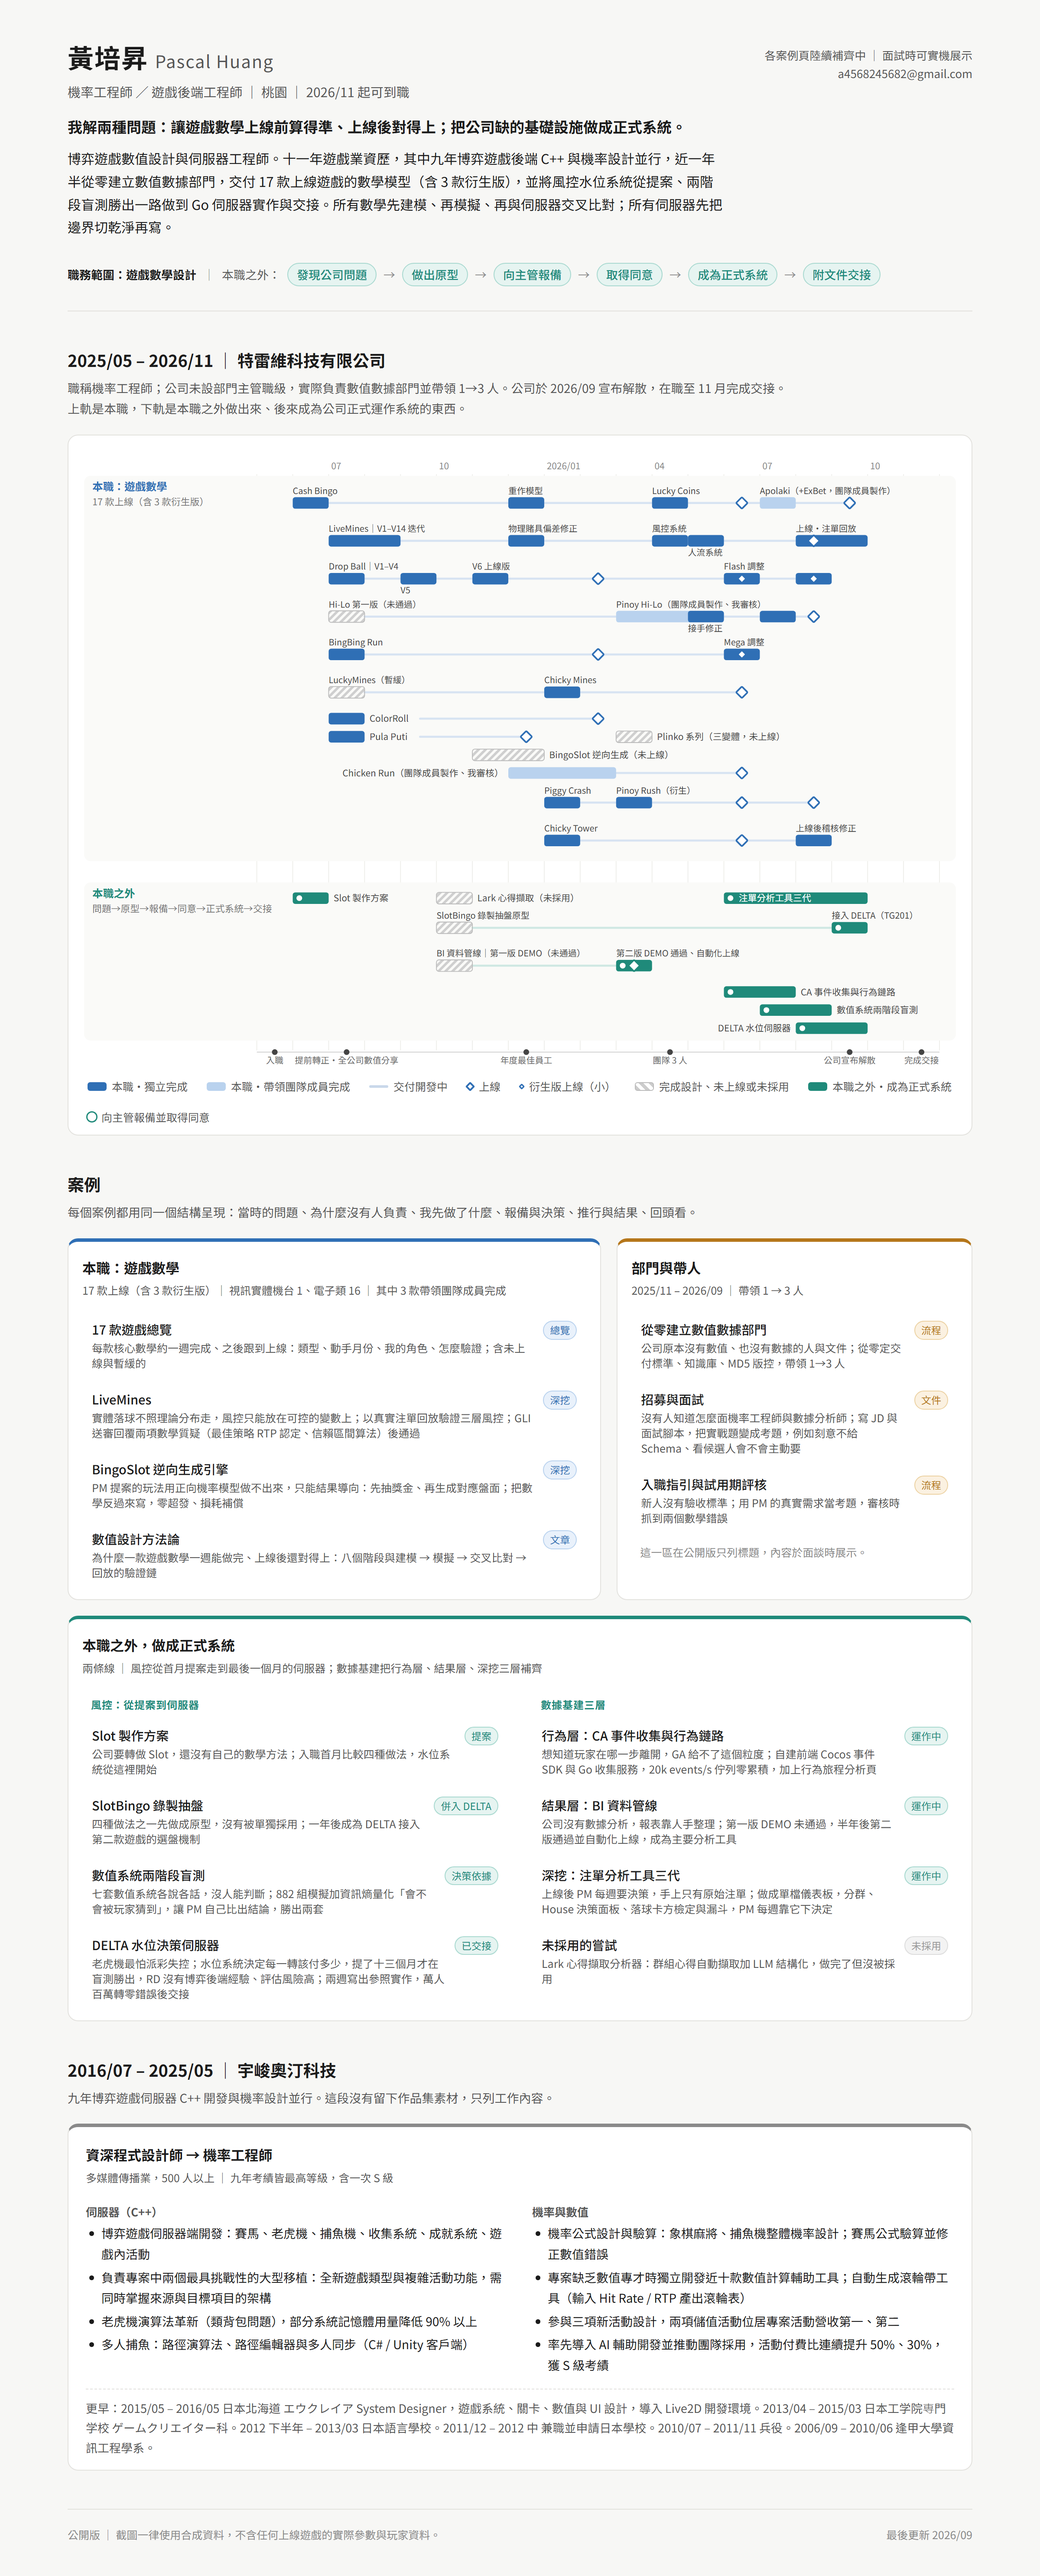
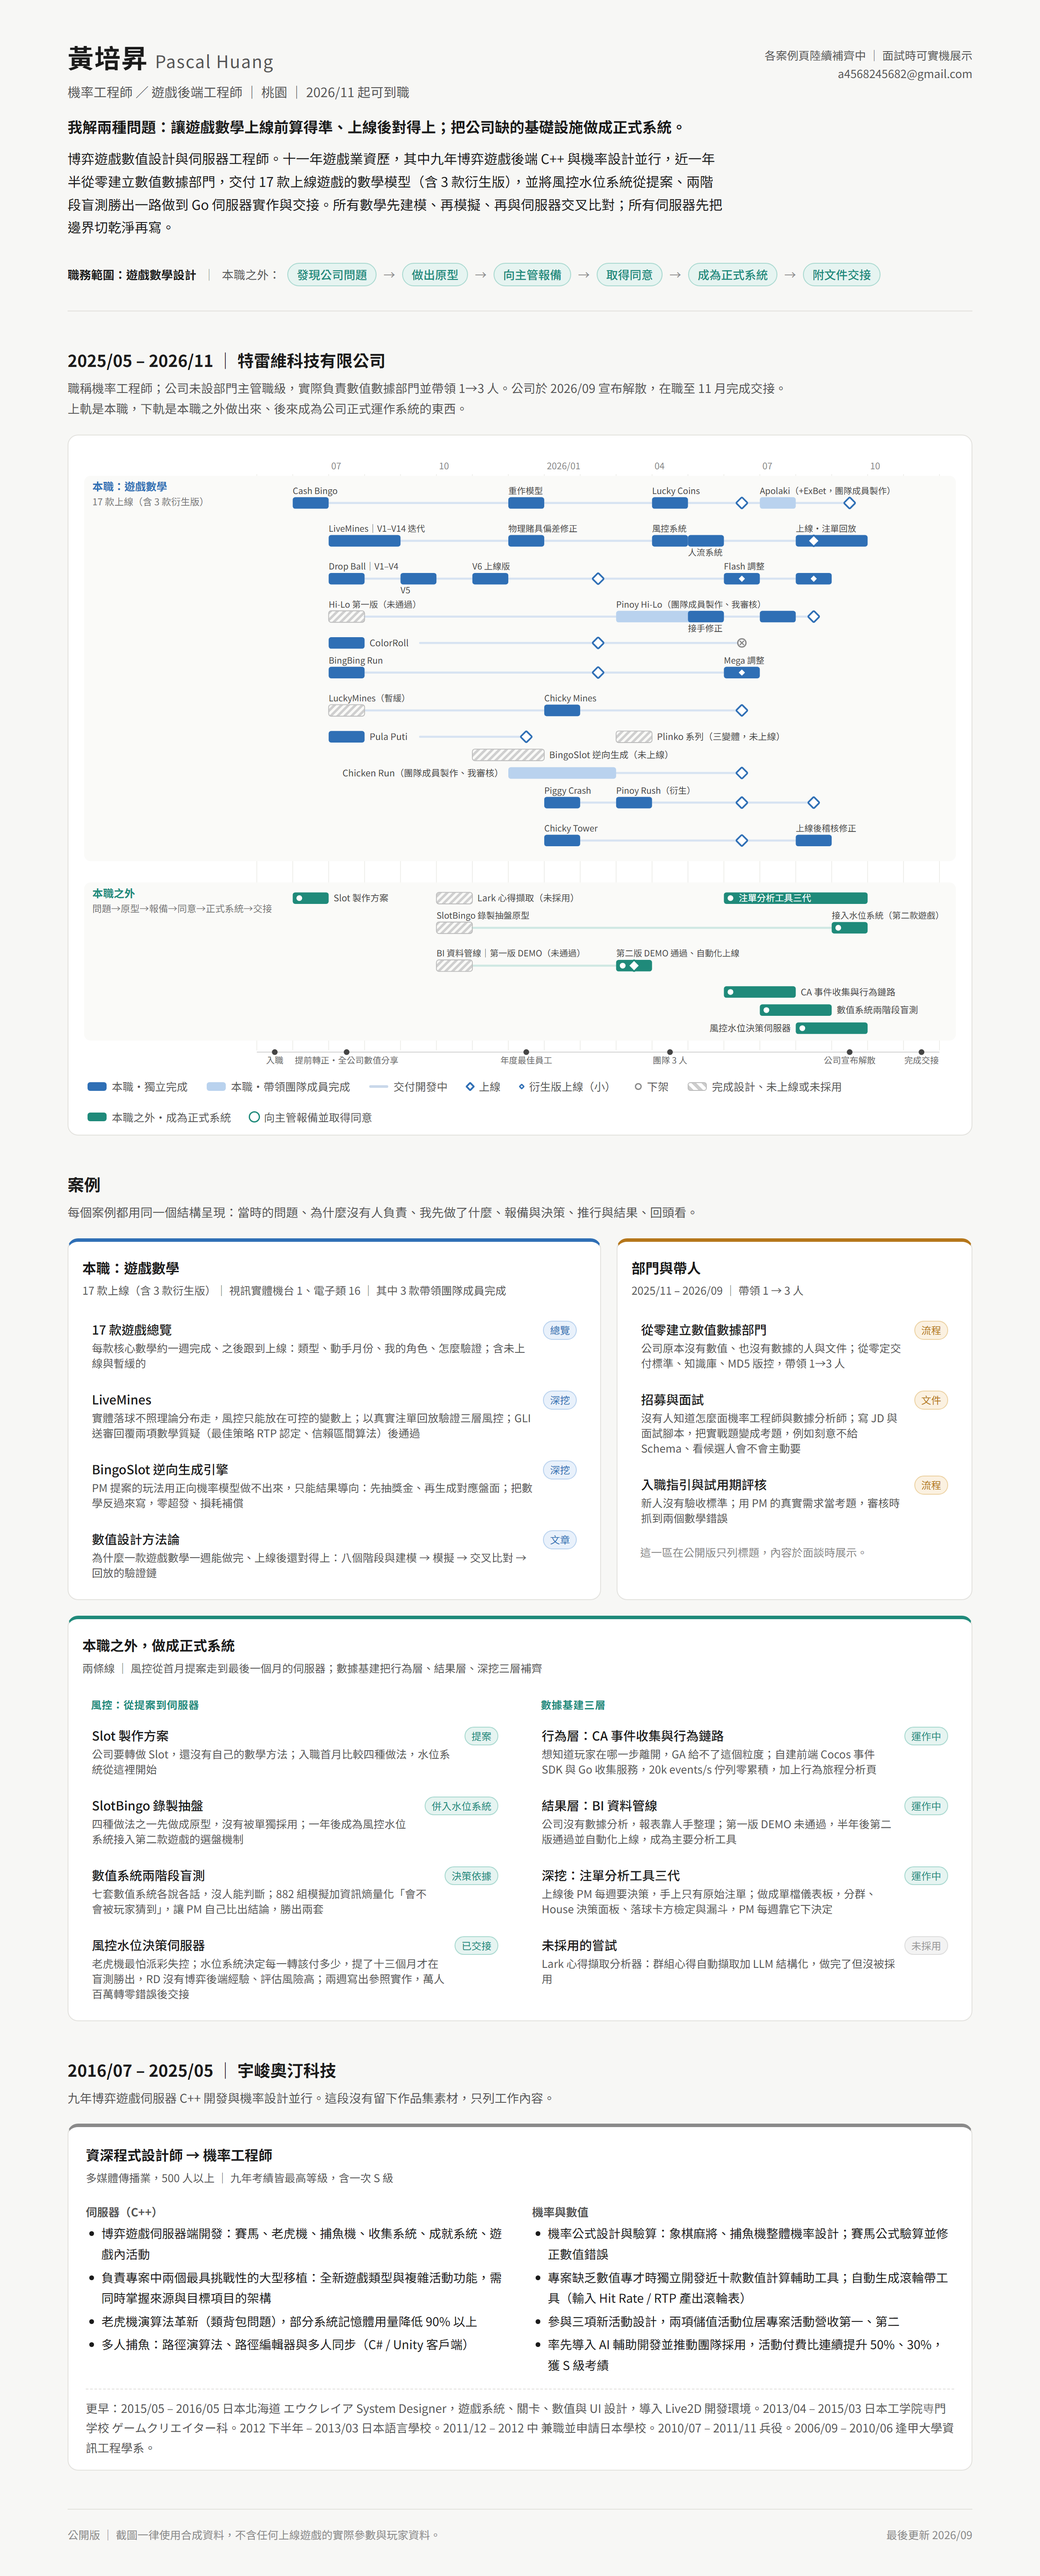
對外統一稱風控水位系統，不用 DELTA 代號

Changed region(s): [[0.3125, 0.2492, 0.75, 0.2804], [0.4062, 0.6853, 0.4375, 0.7165], [0.1562, 0.7476, 0.1875, 0.7788]]

diff --git a/index.html b/index.html
@@ -173,9 +173,9 @@
       <div>
       <p class="grp">風控：從提案到伺服器</p>
       <a class="item" href="#"><span><b>Slot 製作方案</b><small>公司要轉做 Slot，還沒有自己的數學方法；入職首月比較四種做法，水位系統從這裡開始</small></span><span class="st">提案</span></a>
-      <a class="item" href="#"><span><b>SlotBingo 錄製抽盤</b><small>四種做法之一先做成原型，沒有被單獨採用；一年後成為 DELTA 接入第二款遊戲的選盤機制</small></span><span class="st">併入 DELTA</span></a>
+      <a class="item" href="#"><span><b>SlotBingo 錄製抽盤</b><small>四種做法之一先做成原型，沒有被單獨採用；一年後成為風控水位系統接入第二款遊戲的選盤機制</small></span><span class="st">併入水位系統</span></a>
       <a class="item" href="#"><span><b>數值系統兩階段盲測</b><small>七套數值系統各說各話，沒人能判斷；882 組模擬加資訊熵量化「會不會被玩家猜到」，讓 PM 自己比出結論，勝出兩套</small></span><span class="st">決策依據</span></a>
-      <a class="item" href="#"><span><b>DELTA 水位決策伺服器</b><small>老虎機最怕派彩失控；水位系統決定每一轉該付多少，提了十三個月才在盲測勝出，RD 沒有博弈後端經驗、評估風險高；兩週寫出參照實作，萬人百萬轉零錯誤後交接</small></span><span class="st">已交接</span></a>
+      <a class="item" href="#"><span><b>風控水位決策伺服器</b><small>老虎機最怕派彩失控；水位系統決定每一轉該付多少，提了十三個月才在盲測勝出，RD 沒有博弈後端經驗、評估風險高；兩週寫出參照實作，萬人百萬轉零錯誤後交接</small></span><span class="st">已交接</span></a>
       </div>
       <div>
       <p class="grp">數據基建三層</p>
@@ -248,13 +248,13 @@
   ];
   const side = [
     {n:"Slot 製作方案",        segs:[{s:"2025-06", e:"2025-06", k:"live"}], m:["2025-06"]},
-    {n:"SlotBingo 錄製抽盤（水位系統的子分支）", segs:[{l:"SlotBingo 錄製抽盤原型", d:"Slot 製作方案的方案三：離線海量生成盤面 + 容器化 + 線上權重抽樣。原型未單獨採用。與上軌的 BingoSlot 逆向生成是兩個不同專案", s:"2025-10", e:"2025-10", k:"dead"},{l:"接入 DELTA（TG201）", d:"經主管同意，以 TG201 錄盤選盤 + 倍率制作為 DELTA 接入的第二款遊戲，證明水位系統接新遊戲不需改動；錄盤負責遊戲端選盤面、水位負責決定該付多少", s:"2026-09", e:"2026-09", k:"live"}], m:["2026-09"]},
+    {n:"SlotBingo 錄製抽盤（水位系統的子分支）", segs:[{l:"SlotBingo 錄製抽盤原型", d:"Slot 製作方案的方案三：離線海量生成盤面 + 容器化 + 線上權重抽樣。原型未單獨採用。與上軌的 BingoSlot 逆向生成是兩個不同專案", s:"2025-10", e:"2025-10", k:"dead"},{l:"接入水位系統（第二款遊戲）", d:"經主管同意，以錄盤選盤 + 倍率制作為風控水位系統接入的第二款遊戲，證明水位系統接新遊戲不需改動；錄盤負責遊戲端選盤面、水位負責決定該付多少", s:"2026-09", e:"2026-09", k:"live"}], m:["2026-09"]},
     {n:"BI 資料管線", segs:[{l:"BI 資料管線｜第一版 DEMO（未通過）", d:"第一版 Power BI DEMO 提案，未通過", s:"2025-10", e:"2025-10", k:"dead"},{l:"第二版 DEMO 通過、自動化上線", d:"第二版 DEMO 提案通過，CronJob → SharePoint → Power Query → DAX 自動化上線，成為公司主要分析工具", s:"2026-03", e:"2026-03", k:"live"}], m:["2026-03"], launch:[{m:"2026-03", l:"自動化上線 2026/03"}]},
     {n:"Lark 心得擷取（未採用）", segs:[{s:"2025-10", e:"2025-10", k:"dead"}]},
     {n:"注單分析工具三代", segs:[{s:"2026-06", e:"2026-09", k:"live", d:"2026/06–09 持續演化：六格版 → LLM 診斷串接（中途的 AI 分析 side）→ LiveMines 九格版，隨 PM 每週需求持續迭代"}], m:["2026-06"]},
     {n:"CA 事件收集與行為鏈路", segs:[{d:"GA 埋點平替：定義前端事件協定並做 Cocos SDK 給前端接入；Go 收集服務（佇列 + 批次寫入、冪等、優雅關機）壓測 20k events/s；PostgreSQL schema；行為旅程分析頁", s:"2026-06", e:"2026-07", k:"live"}], m:["2026-06"]},
-    {n:"數值系統兩階段盲測", segs:[{d:"七套數值系統盲測（882 組模擬、資訊熵）→ 五套系統以真實賠率表二階盲測 → 勝出兩套，DELTA 雙池水位是其一", s:"2026-07", e:"2026-08", k:"live"}], m:["2026-07"]},
-    {n:"DELTA 水位伺服器",      segs:[{s:"2026-08", e:"2026-09", k:"live"}], m:["2026-08"]},
+    {n:"數值系統兩階段盲測", segs:[{d:"七套數值系統盲測（882 組模擬、資訊熵）→ 五套系統以真實賠率表二階盲測 → 勝出兩套，雙池水位系統是其一", s:"2026-07", e:"2026-08", k:"live"}], m:["2026-07"]},
+    {n:"風控水位決策伺服器", segs:[{s:"2026-08", e:"2026-09", k:"live"}], m:["2026-08"]},
   ];
   const events = [
     {m:"2025-05", t:"入職"}, {m:"2025-07", t:"提前轉正・全公司數值分享"}, {m:"2025-12", t:"年度最佳員工"},

diff --git a/games.html b/games.html
@@ -109,7 +109,7 @@ const G = [
  {code:"—", n:"Drop Ball Flash", k:"dv", type:"衍生版 · 參數調整、畫面優化", work:"2026/06", launch:"2026/06/17", math:"上線前一週參數調整", verify:"—", hours:"—"},
  {code:"—", n:"Color Flash", k:"dv", type:"衍生版 · Drop Ball Flash 換皮", work:"2026/08", launch:"2026/08/20", math:"上線前一週參數調整", verify:"—", hours:"—"},
  {code:"TG107", n:"BingoSlot", k:"dead", type:"逆向生成引擎", work:"2025/11–12", launch:"未上線", math:"結果導向：先抽獎金再生成盤面；K-Grow、零超發、損耗補償", verify:"SDK 封裝 C API 供 Go 整合，模擬數據測試", hours:252},
- {code:"—", n:"SlotBingo 錄製抽盤", k:"dead", type:"錄盤架構原型", work:"2025/10", launch:"未單獨採用；2026/09 併入 DELTA", math:"離線海量生成 + 線上權重抽樣", verify:"數學 / 後端雙重驗證", hours:62},
+ {code:"—", n:"SlotBingo 錄製抽盤", k:"dead", type:"錄盤架構原型", work:"2025/10", launch:"未單獨採用；2026/09 併入風控水位系統", math:"離線海量生成 + 線上權重抽樣", verify:"數學 / 後端雙重驗證", hours:62},
  {code:"—", n:"LuckyMines", k:"dead", type:"電子類 · 踩地雷 JP", work:"2025/07", launch:"暫緩 → Chicky Mines", math:"推敲 JP 系統規則、建模", verify:"模擬器 + 驗證", hours:24},
  {code:"—", n:"Hi-Lo 第一版", k:"dead", type:"電子類 · 比大小", work:"2025/07", launch:"未通過 → Pinoy Hi-Lo", math:"建模", verify:"模擬器 + 驗證", hours:12},
  {code:"—", n:"Plinko 系列", k:"dead", type:"電子類 · 三變體", work:"2026/03", launch:"未上線", math:"純 Plinko、分裂、免費球", verify:"—", hours:"—"},
